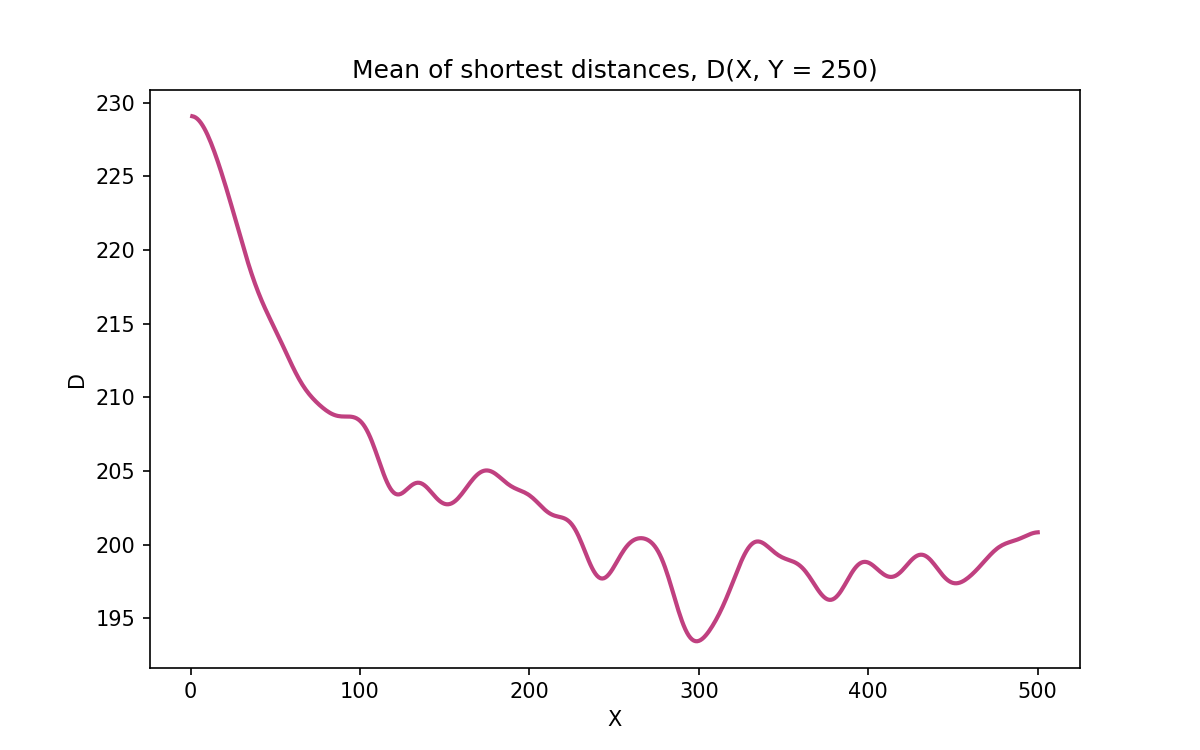
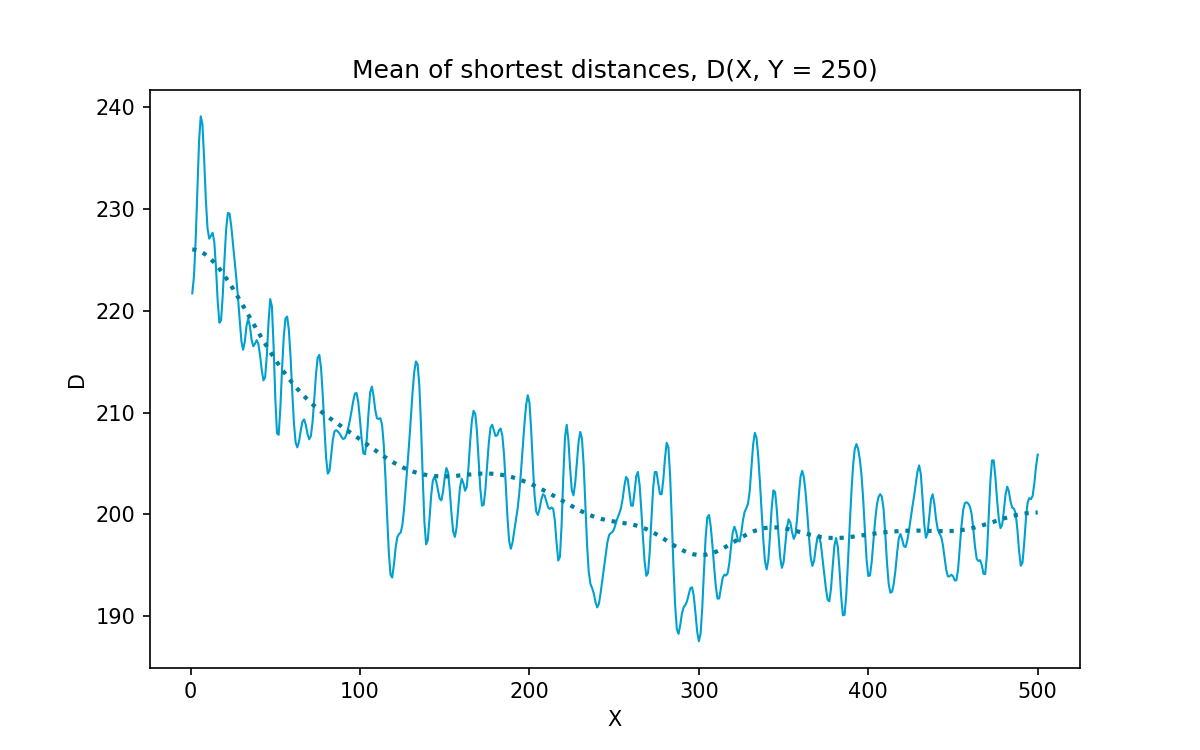
Asher Chen commited at 2023-01-14_01-15-34

diff --git a/test/p_n-1000_x-1-500.py b/test/p_n-1000_x-1-500.py
@@ -12,12 +12,13 @@ data = read_csv('output/d_n-1000_x-1-500_y-1-500.csv')
 y = (data[['Y']].max()[0] + data[['Y']].min()[0]) // 2
 
 arg = data[data['Y'] == y].to_numpy().transpose()
-x, d = arg[0], gaussian_filter1d(arg[2], sigma=10)
+x, d = arg[0], gaussian_filter1d(arg[2], sigma=2)
 
 # plot
 #
 fig = plt.figure(figsize=(8, 5))
-plt.plot(x, d, color = '#C04080', linewidth = 2)
+plt.plot(x, d, color='#00A0D0', linewidth=1)
+plt.plot(x, gaussian_filter1d(d, 20), ':', color='#0080A0', linewidth=2)
 
 # label
 #

diff --git a/test/p_n-1000_y-1-500.py b/test/p_n-1000_y-1-500.py
@@ -12,12 +12,13 @@ data = read_csv('output/d_n-1000_x-1-500_y-1-500.csv')
 x = (data[['X']].max()[0] + data[['X']].min()[0]) // 2
 
 arg = data[data['X'] == x].to_numpy().transpose()
-y, d = arg[1], gaussian_filter1d(arg[2], sigma=10)
+y, d = arg[1], arg[2]
 
 # plot
 #
 fig = plt.figure(figsize=(8, 5))
-plt.plot(y, d, color='#D0B020', linewidth=2)
+plt.plot(y, d, color='#D0B020', linewidth=1)
+plt.plot(y, gaussian_filter1d(d, 20), ':', color='#B09020', linewidth=2)
 
 # label
 #
